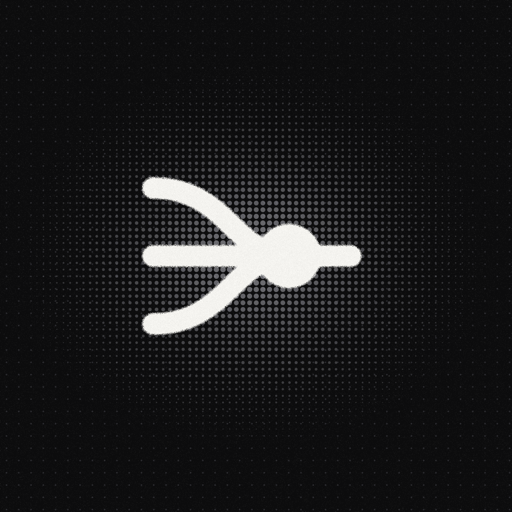
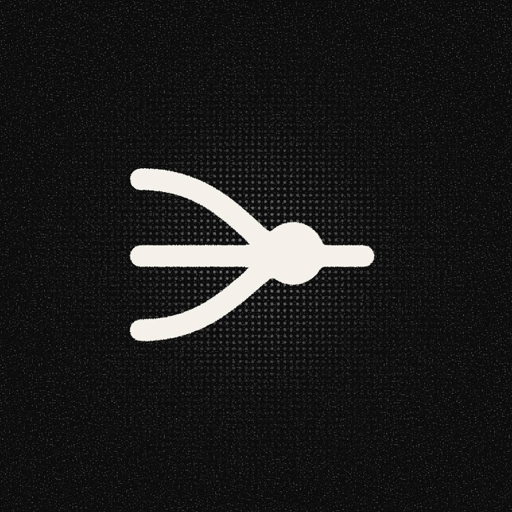
Token image and profile picture: the one used on X

Changed region(s): [[0.1562, 0.1875, 0.8438, 0.7812], [0.25, 0.25, 0.2812, 0.2812]]

diff --git a/content/brand/README.md b/content/brand/README.md
@@ -7,7 +7,7 @@ The mark: three threads (the signals) meet in a knot (the rule) and leave as one
 | `weft-logo-dark.png` | Mark + wordmark for dark backgrounds (transparent PNG) |
 | `weft-logo-light.png` | Mark + wordmark for light backgrounds (transparent PNG) |
 | `weft-mark.png` / `weft-mark.svg` | The app icon: the mark in its rounded square (1024 px / vector) |
-| `weft-pfp.png` | **The X profile picture** (chosen 2026-10-17): 2000 × 2000, the mark printed on the banner dot grid with a halftone glow and a grainy edge (X crops it to a circle) |
+| `weft-pfp.png` | **The X profile picture and the token image** (the user’s own version, 1280 × 1280): white mark, halftone glow, grain. `apps/web/public/token/weft-token*.png` are made from it |
 
 Colours: ink `#121214`, paper `#F4F3EF`. The wordmark is Instrument Sans SemiBold, tracking −3.5%, lowercase.
 Regenerate: `node content/brand/kit.mjs`.
